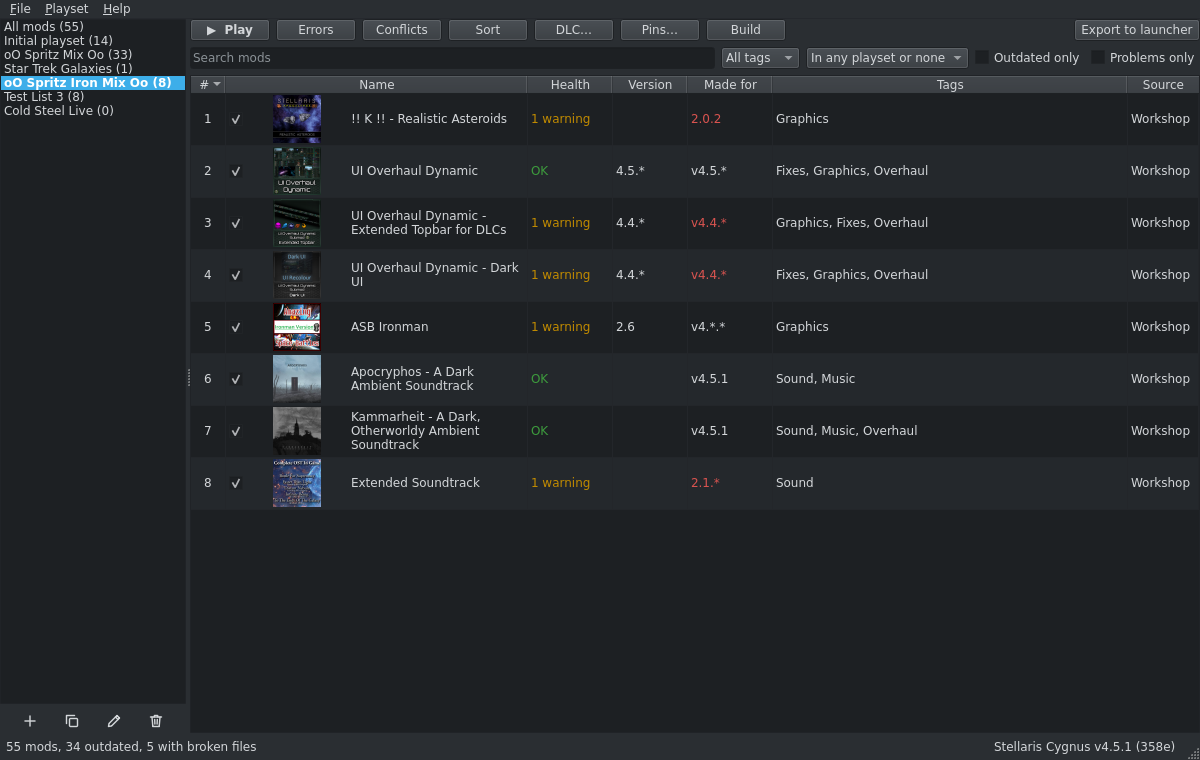
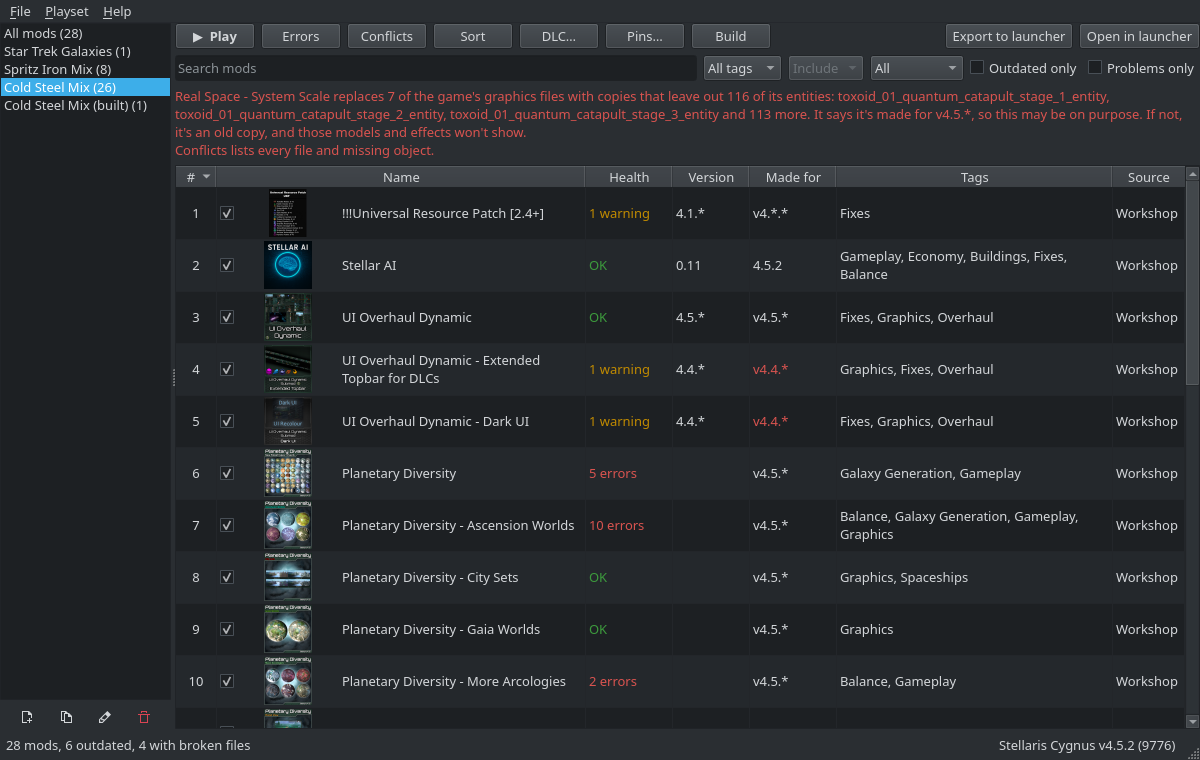
Retake the README screenshots from the current app
Taken on the host, light and dark, with Cold Steel Mix: 26 mods in the
main window and 631 clashes in Conflicts. `make screenshots` now takes
PLAYSET to choose which playset to show; without it, it still shows the
one you last played.

diff --git a/tools/screenshots.py b/tools/screenshots.py
@@ -1,12 +1,15 @@
 """Takes the README's screenshots from your real install, light and dark.
 
     make screenshots
+    make screenshots PLAYSET="Cold Steel Mix"
 
-Run it on the host for the desktop's own style; in the container it draws
-off screen with Qt's plain style. Your playsets are read from a copy, so
-nothing of yours is changed. Pictures go in screenshots/.
+It shows the playset you last played, or the one PLAYSET names. Run it on
+the host for the desktop's own style; in the container it draws off screen
+with Qt's plain style. Your playsets are read from a copy, so nothing of
+yours is changed. Pictures go in screenshots/.
 """
 
+import argparse
 import shutil
 import sys
 import tempfile
@@ -27,12 +30,15 @@ OUT = Path(__file__).parent.parent / "screenshots"
 
 
 def main() -> int:
+    parser = argparse.ArgumentParser(description="Take the README's screenshots.")
+    parser.add_argument("--playset", default="", help="the playset to show, by name")
+    wanted = parser.parse_args().playset
     OUT.mkdir(exist_ok=True)
     scratch = Path(tempfile.mkdtemp(prefix="cold-steel-shots-"))
     if (mine := paths.data_dir() / "playsets.json").exists():
         shutil.copy(mine, scratch / "playsets.json")
 
-    app = QApplication(sys.argv)
+    app = QApplication(sys.argv[:1])
     app.setApplicationName("Cold Steel")
     settings = load_settings()
     window = MainWindow(
@@ -47,10 +53,14 @@ def main() -> int:
         widget.grab().save(str(OUT / f"{name}.png"))
         print(OUT / f"{name}.png")
 
-    def select_active_playset() -> None:
-        active = window.book.active if window.book else None
+    def select_playset() -> None:
+        book = window.book
+        named = [p.id for p in book.playsets if p.name == wanted] if book and wanted else []
+        if wanted and not named:
+            print(f"No playset is called {wanted!r}. Showing the one you last played.")
+        choice = named[0] if named else book.active if book else None
         for row in range(window.playset_list.count()):
-            if window.playset_list.item(row).data(Qt.ItemDataRole.UserRole) == active:
+            if window.playset_list.item(row).data(Qt.ItemDataRole.UserRole) == choice:
                 window.playset_list.setCurrentRow(row)
                 return
         window.playset_list.setCurrentRow(min(1, window.playset_list.count() - 1))
@@ -87,7 +97,7 @@ def main() -> int:
         app.quit()
 
     def library_ready() -> None:
-        select_active_playset()
+        select_playset()
         window.conflicts_shown.connect(lambda _: conflicts_ready())
         window.show_conflicts()
 
